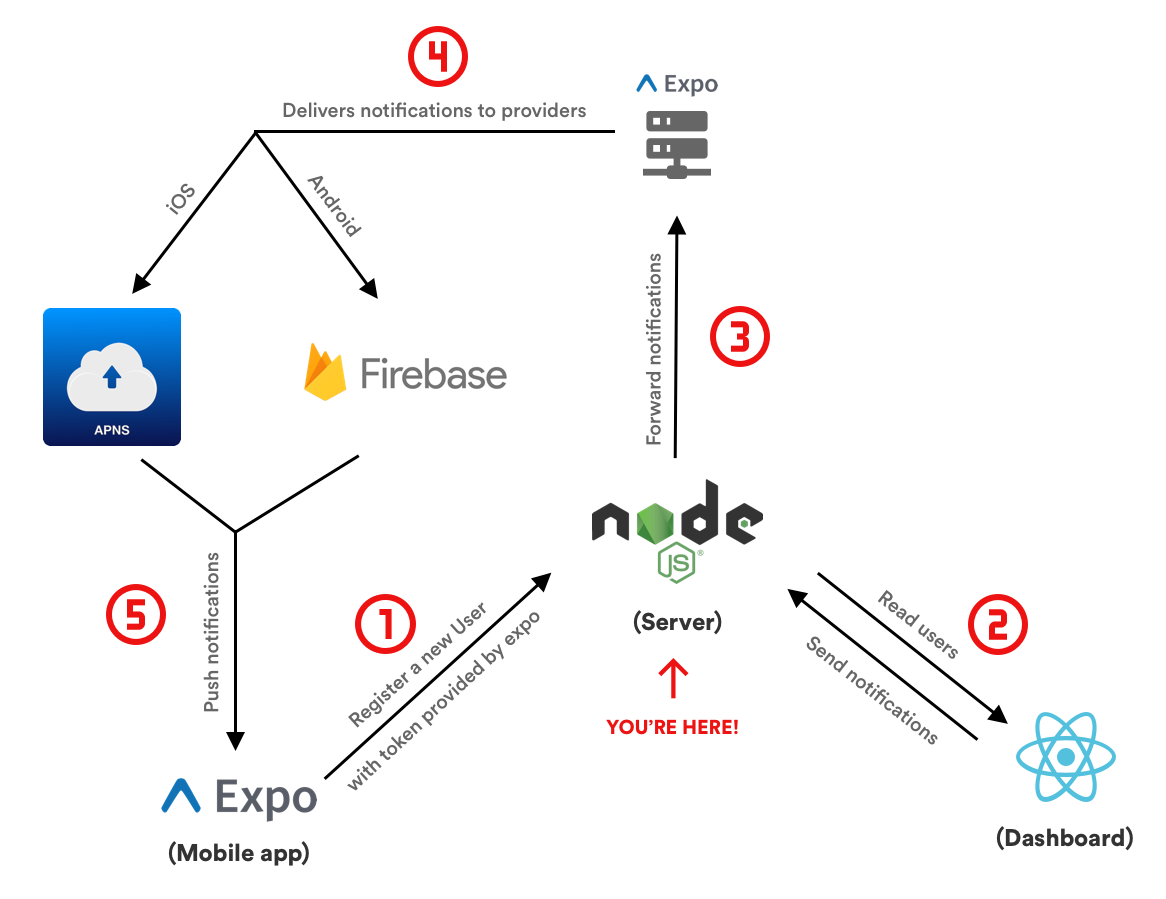
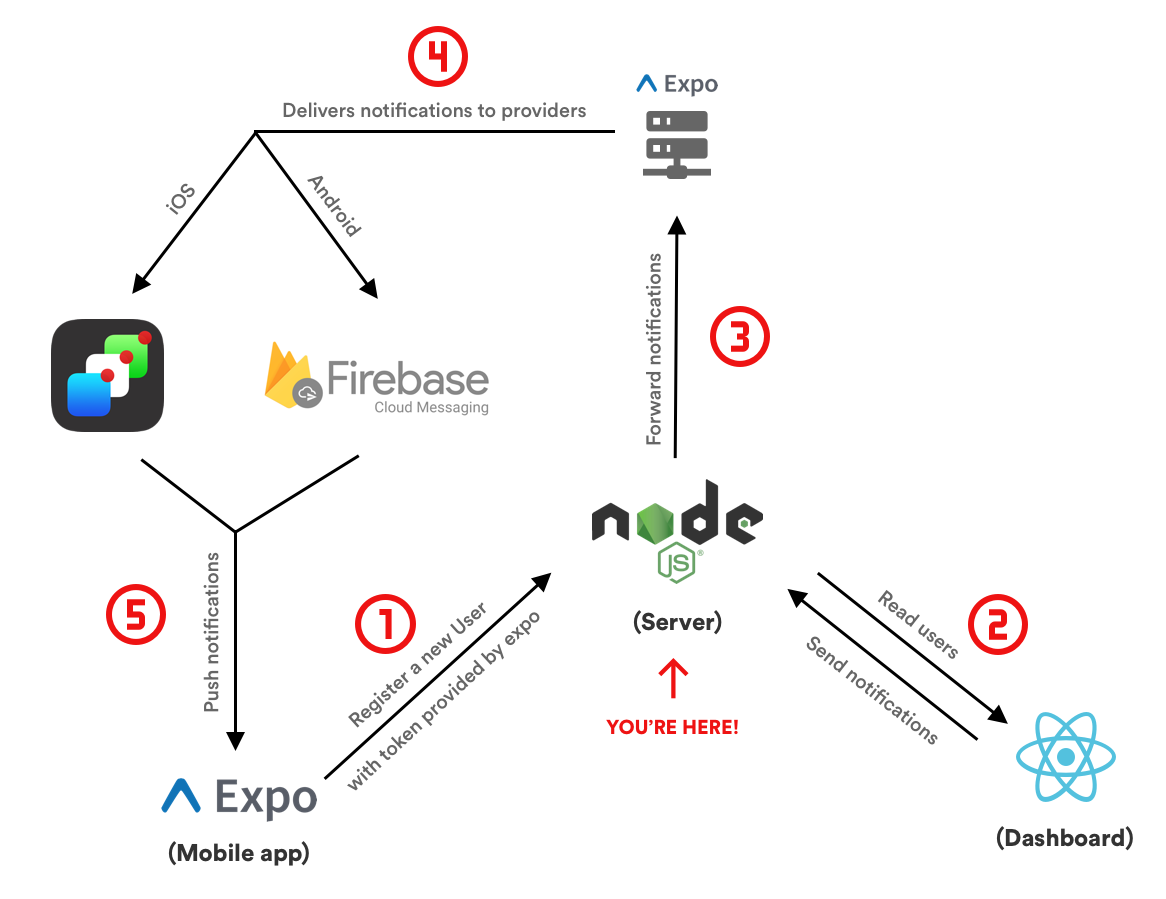
Creating README and updating flow image

Changed region(s): [[0.0309, 0.3426, 0.1544, 0.4983], [0.2161, 0.3737, 0.4322, 0.4672]]

diff --git a/README.md b/README.md
@@ -1,0 +1,194 @@
+
+
+
+
+# # expo-notifications-api
+
+![Preview-Screens](https://github.com/steniowagner/expo-notifications-api/blob/master/img/flow.png)
+
+This is the back-end of the [expo-notifications-app](https://github.com/steniowagner/expo-notifications-app) and [expo-notifications-dashboard](https://github.com/steniowagner/expo-notifications-dashboard).
+
+The main purpose of this API is:
+- Records users with push-notifications tokens sent by  [expo-notifications-app](https://github.com/steniowagner/expo-notifications-app).
+- Sends the registered users and receive the sending notifications orders from [expo-notifications-dashboard](https://github.com/steniowagner/expo-notifications-dashboard).
+ - Forwards the notifications to the [expo-server-sdk](https://www.npmjs.com/package/expo-server-sdk) to then be delivered to the notifications providers.
+
+> OBS: This API just delivers the notifications to the Expo servers using [expo-server-sdk](https://www.npmjs.com/package/expo-server-sdk) and handle the errors that may occurs alog the way. The responsability to deliver the notifications to the final users is the [FCM](https://firebase.google.com/docs/cloud-messaging) for Android and [APNs](https://developer.apple.com/library/archive/documentation/NetworkingInternet/Conceptual/RemoteNotificationsPG/APNSOverview.html#//apple_ref/doc/uid/TP40008194-CH8-SW1) for Apple, and is up to Expo the responsability to deliver the notifications to FCM and APNs, so, maybe you find some delay until your notifications been delivered to the users due some problem like overload on the provider's server or expo's servers (usually it's just a matter of wait a little bit 😛).
+
+## About this Project
+
+This project is part of my personal portfolio, so, I'll be happy if you could provide me any feedback about the project, code, structure or anything that you can report that could make me a better developer!
+
+
+Email-me: stenio.wagner1@gmail.com
+
+
+
+Connect with me at [LinkedIn](https://www.linkedin.com/in/steniowagner/)
+
+
+
+Also, you can use this Project as you wish, be for study, be for make improvements or earn money with it!
+
+
+
+It's free!
+
+## Getting Started
+
+### Prerequisites
+
+To run this project in the development mode, you'll need to have a basic environment with NodeJS 8+ installed. To use the database, you'll need to have MongoDB installed and running on your machine at the default port (27017).
+
+If you have Docker installed, there's a [docker-compose file](https://github.com/steniowagner/expo-notifications-api/blob/master/docker-compose.development.yml) with the setup for the database and server (which is the default setup for this project).
+
+### Installing
+
+**Cloning the Repository**
+
+```
+$ git clone https://github.com/steniowagner/expo-notifications-api
+
+$ cd expo-notifications-api
+```
+
+**Installing dependencies**
+
+```
+$ yarn
+```
+
+_or_
+
+```
+$ npm install
+```
+
+### Running the Development environment
+
+If you want to run the server using Docker, you can setup the container using the following command:
+
+```
+$ docker-compose -f docker-compose.development.yml up
+```
+
+If you do prefer run the database and the app without Docker, do the following instead:
+
+- Replace the ***database*** string for the address of the MongoDB running on your network on [.env.development](https://github.com/steniowagner/expo-notifications-api/blob/master/.env.development#L1) file.
+- Make sure to inject the NODE_ENV=development variable, you can do this by editing the [dev script](https://github.com/steniowagner/expo-notifications-api/blob/master/package.json#L7) and adding this command in the front of the script:
+
+```
+"dev": "NODE_ENV=development nodemon src/app.ts",
+```
+
+With all dependencies installed and the environment properly configured, you can now run the server:
+
+```
+$ yarn dev
+```
+
+_or_
+
+```
+$ npm run dev
+```
+
+## Routes
+
+> The base path for the API is /expo-notifications/api/v1
+
+### Test Route
+
+- **This is the route that you can use to check if the API is running properly.**
+
+> http://localhost:4000/expo-notifications/api/v1
+
+| ENDPOINT | Method | Params | URL Params | Success Response | Error Response
+|--|--|--|--|--|--|
+| / | `GET`  | - | - |**Code:** 200 - OK<br />**Content:** `{ message:  "UHUL! The API is UP && RUNNING!" }`  |  **Code:** 500 - INTERNAL SERVER ERROR <br />**Content:** `{ message:  <A Message with a description of the Error> }`|
+
+### CRUD User
+> - GET /users - Get all users
+> - GET /users/:id - Get a single user
+> - POST /users - Create an user (Need to provide the [User](#user) inside the body of the request)
+> - PUT /users/:id - Update an user (Need to provide the [User](#user) fields to be updated inside the body of the request)
+> - DELETE /users/:id - Delete a single user
+
+### Send Notifications
+| ENDPOINT | Method | Params | URL Params | Success Response | Error Response
+|--|--|--|--|--|--|
+| /push-notifications | `POST`  | { `tokens: [string]`, `title: string`, `body: string`] } | - |**Code:** 200 - OK <br /> **Content:** [PushNotificationResponse](#pushnotificationresponse) |  **Code:** 500 - INTERNAL SERVER ERROR<br />*or*<br />**Code:** 400 - BAD REQUEST<br />**Content:** `{ message:  <A Message with a description of the Error> }`
+<br />
+
+### Entities
+
+### PushNotificationResponse
+
+> *usersNotRegistered*: Users that uninstalled the App from their devices and have been deleted from the database due that, so the app will not send notifications to them anymore.
+
+> *shippingErrors*: Some errors that may happen along the way, you can find more about the errors [here](https://docs.expo.io/versions/latest/guides/push-notifications/#response-format) and the implementation of the error-handler for each error [here](https://github.com/steniowagner/expo-notifications-api/blob/master/src/controllers/push-notifications/getPushResultsFromExpo.ts) and [here](https://github.com/steniowagner/expo-notifications-api/blob/master/src/controllers/push-notifications/getPushResultsFromProviders.ts).
+
+```json
+{
+  "usersNotRegistered": [{
+    "user": "User"
+  }],
+  "shippingErrors": [{
+    "reason": "string",
+    "user": "User"
+  }],
+}
+```
+
+#### User
+
+> *name*: User's name.
+
+> *email*: User's email.
+
+> *notificationToken*: User's notification push token provided by Expo.
+
+```json
+{
+  "name": {
+    "type": "string",
+    "required": true,
+  },
+  "email": {
+    "type": "string",
+    "required": true,
+  },
+  "notificationToken": {
+    "type": "string",
+    "required": true,
+  },
+}
+```
+
+## Built With
+
+- [NodeJS](https://nodejs.org/en/) - Build the server
+- [Typescript](https://www.typescriptlang.org/) - Programming language used
+- [body-Parser](https://github.com/expressjs/body-parser#readme) - Node.js body parsing middleware
+- [express](https://expressjs.com/) - Router of the Application
+- [MongoDB](https://www.mongodb.com/) - Database
+- [mongoose](https://mongoosejs.com/) - Object Modeling + DB Connector
+- [nodemon](https://nodemon.io/) - Process Manager used in the development
+- [dotenv](https://github.com/motdotla/dotenv) - Environment loader
+- [eslint](https://eslint.org/) - JS Linter and code style
+- [prettier](https://github.com/prettier/prettier) - Code formatter
+- [husky](https://github.com/typicode/husky) - Git hooks
+- [lint-staged](https://github.com/okonet/lint-staged) - Run linters on git staged files
+
+## Contributing
+
+You can send how many PR's do you want, I'll be glad to analyse and accept them! And if you have any question about the project...
+
+Email-me: stenio.wagner1@gmail.com
+
+Connect with me at [LinkedIn](https://www.linkedin.com/in/steniowagner/)
+
+Thank you!
+
+## License
+This project is licensed under the MIT License - see the [LICENSE.md](https://github.com/steniowagner/expo-notifications-api/blob/master/LICENSE) file for details.
